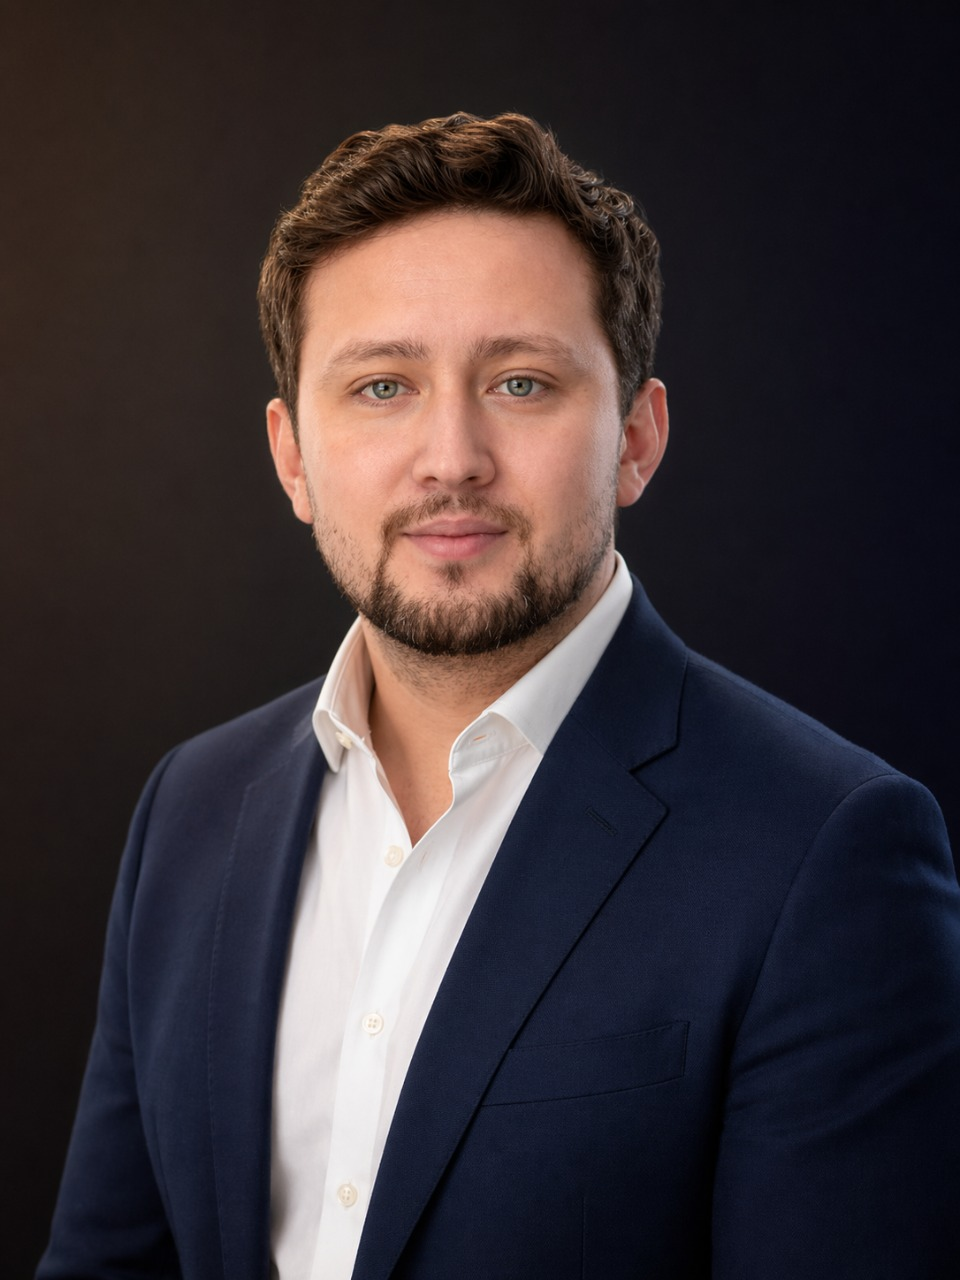
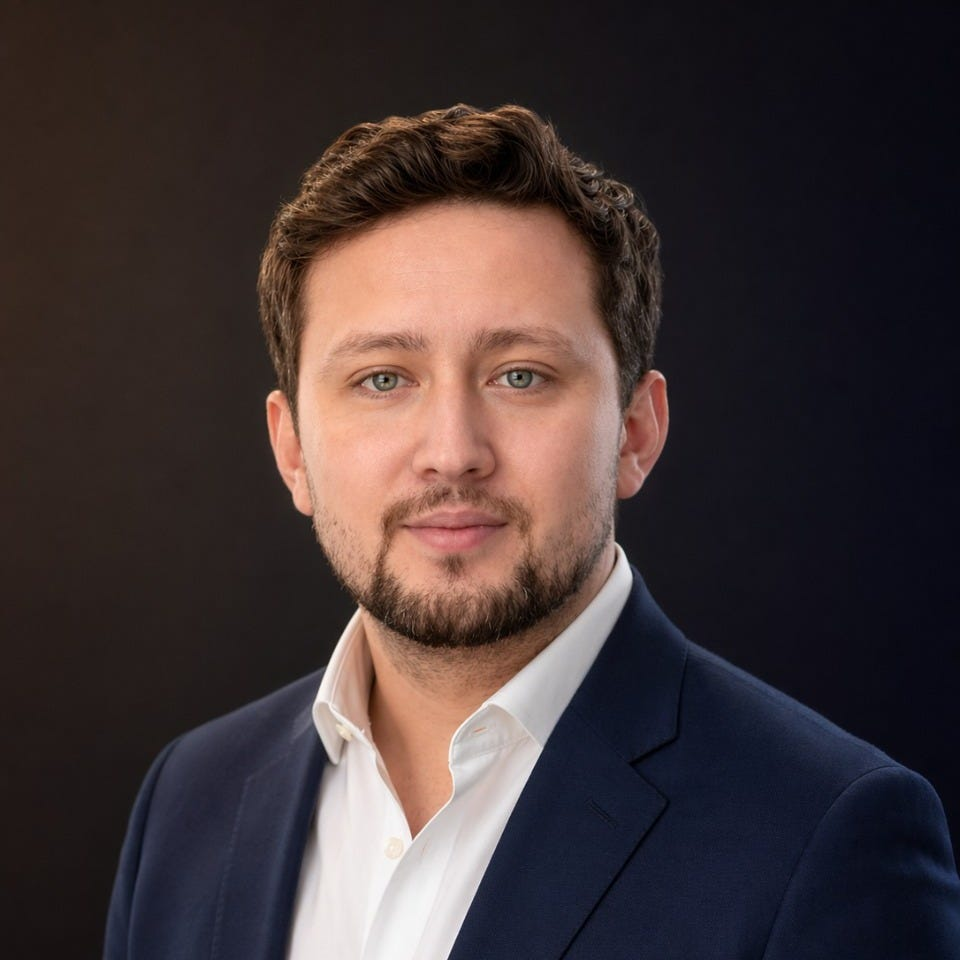
fix: use local square headshot (960x960)
- Replace Substack CDN with local properly cropped headshot
- 960x960 square format, no stretching
- Update profile mode, about page, and OG tags

diff --git a/layouts/partials/extend_head.html b/layouts/partials/extend_head.html
@@ -3,7 +3,7 @@
 <meta property="og:description" content="{{ if .Summary }}{{ .Summary }}{{ else }}{{ site.Params.description }}{{ end }}">
 <meta property="og:type" content="{{ if .IsPage }}article{{ else }}website{{ end }}">
 <meta property="og:url" content="{{ .Permalink }}">
-<meta property="og:image" content="https://substackcdn.com/image/fetch/$s_!7IHu!,f_auto,q_auto:good,fl_progressive:steep/https%3A%2F%2Fsubstack-post-media.s3.amazonaws.com%2Fpublic%2Fimages%2Ff0f200f0-7ec5-477f-b2e8-541881ea970e_960x960.jpeg">
+<meta property="og:image" content="{{ .Site.BaseURL }}images/headshot-2026.jpg">
 <meta property="og:locale" content="es_CO">
 {{ if .IsPage }}
 <meta property="article:author" content="Camilo Cáceres">
@@ -14,7 +14,7 @@
 <meta name="twitter:card" content="summary_large_image">
 <meta name="twitter:title" content="{{ if .IsHome }}{{ site.Title }}{{ else }}{{ .Title }} | {{ site.Title }}{{ end }}">
 <meta name="twitter:description" content="{{ if .Summary }}{{ .Summary }}{{ else }}{{ site.Params.description }}{{ end }}">
-<meta name="twitter:image" content="https://substackcdn.com/image/fetch/$s_!7IHu!,f_auto,q_auto:good,fl_progressive:steep/https%3A%2F%2Fsubstack-post-media.s3.amazonaws.com%2Fpublic%2Fimages%2Ff0f200f0-7ec5-477f-b2e8-541881ea970e_960x960.jpeg">
+<meta name="twitter:image" content="{{ .Site.BaseURL }}images/headshot-2026.jpg">
 
 <!-- Cloudflare Web Analytics -->
 <script defer src='https://static.cloudflareinsights.com/beacon.min.js' data-cf-beacon='{"token": "5331aa390bef40ffb7c875f48a627c53"}'></script>

diff --git a/content/about.md b/content/about.md
@@ -7,7 +7,7 @@ lastmod: 2026-04-24T00:00:00-05:00
 ---
 
 <div class="about-photo-container">
-  <img src="https://substackcdn.com/image/fetch/$s_!7IHu!,f_auto,q_auto:good,fl_progressive:steep/https%3A%2F%2Fsubstack-post-media.s3.amazonaws.com%2Fpublic%2Fimages%2Ff0f200f0-7ec5-477f-b2e8-541881ea970e_960x960.jpeg" alt="Camilo Cáceres" class="about-photo">
+  <img src="/images/headshot-2026.jpg" alt="Camilo Cáceres" class="about-photo">
 </div>
 
 ## De UNICAMP a MercadoLibre
